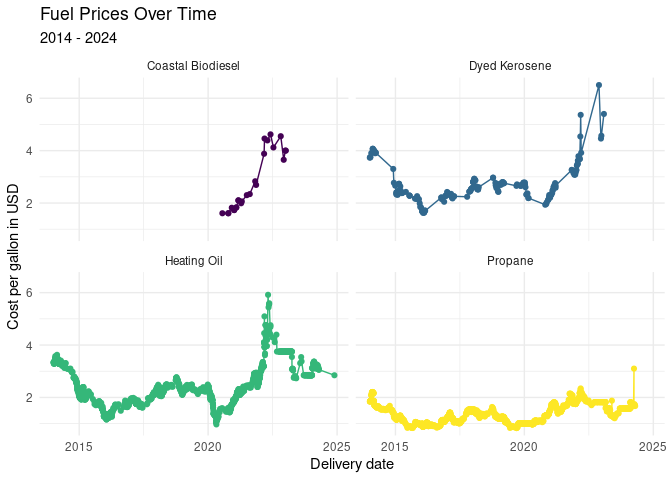
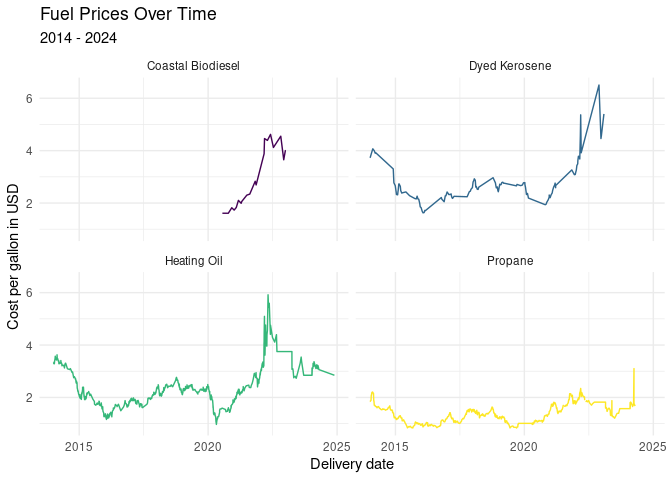
Update fuel price plot

diff --git a/memo/memo.md b/memo/memo.md
@@ -90,7 +90,6 @@ ggsave("example-starwars-wide.png", width = 6, height = 4)
 ``` r
 fuels %>% 
   ggplot(mapping = aes(x = Delivery_date, y = Unit_cost, color = Fuel_type)) +
-  geom_point() +
   geom_line() +
   facet_wrap(~ Fuel_type) +
   scale_color_viridis_d() +
@@ -107,9 +106,6 @@ fuels %>%
     ## This warning is displayed once every 8 hours.
     ## Call `lifecycle::last_lifecycle_warnings()` to see where this warning was
     ## generated.
-
-    ## Warning: Removed 2 rows containing missing values or values outside the scale range
-    ## (`geom_point()`).
 
 ![](memo_files/figure-gfm/unnamed-chunk-1-1.png)<!-- -->
 
